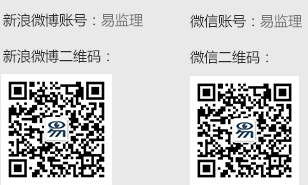
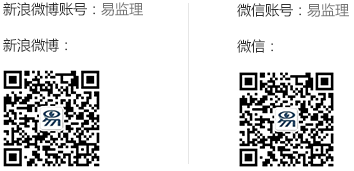
t

diff --git a/newnav/html/head.html b/newnav/html/head.html
@@ -7,7 +7,7 @@
         	<div class="left ml-2">
             	<a href="index.php"><img src="newnav/images/yijianlilogo.png" width="145" height="109" alt="易监理" /></a>
             </div>
-            <div class="left byu mt-3 ml-1">装修从此容易！</div>
+            <div class="left byu mt-6 ml-1">装修从此容易！</div>
             <ul class="left clearfix cn-u mt-5-5">
             	<li class="bg-1">1000元先赔保障</li>
                 <li class="bg-2">100%成本节省</li>

diff --git a/newnav/html/gz_head.html b/newnav/html/gz_head.html
@@ -7,7 +7,7 @@
         	<div class="left ml-2">
             	<a href="gz.php"><img src="newnav/images/yijianlilogo.png" width="145" height="109" alt="易监理" /></a>
             </div>
-            <div class="left byu mt-3 ml-1">装修从此容易！</div>
+            <div class="left byu mt-6 ml-1">装修从此容易！</div>
             <ul class="left clearfix cn-u mt-5-5">
             	<li class="bg-1">1000元先赔保障</li>
                 <li class="bg-2">100%成本节省</li>

diff --git a/function.php b/function.php
@@ -1023,12 +1023,24 @@ if (0 && ($d_l1id != 166 || $_COOKIE['isgz'])) {
 	<div class="right">Copyright &copy; '.date('Y').' '.$r_main['site_name'].'</div><br /><a href="http://www.sgs.gov.cn/lz/licenseLink.do?method=licenceView&entyId=20130520141953244"><img src="icon.gif" border=0></a>
 	</div>';
 } else {
-	$s .= '<div style="background-color:#E9E9E9">
-	<div class="w-100 mga pb-5">
-	<p><img src="newnav/images/contact.png" width="1000" height="84" alt="地址，联系方式"></p>
-	<p class="ml-13"><img src="newnav/images/erweima.png" width="308" height="185" alt="微博，微信扫描"></p>
-	</div>
-	</div>
+	$s .= '<div class="mt-2" style="background-color:#ffffff">
+        	<div style="background-color:#f8f8f8">
+            	<div class="w-100 mga">
+                	<p><img src="newnav/images/contact.png" width="1000" height="107" alt="地址，联系方式" /></p>
+                </div>
+            </div>
+            <div class="w-100 mga pb-3 clearfix">
+                <p class="ml-6-5 mt-2 left"><img src="newnav/images/erweima.png" width="354" height="171" alt="微博，微信扫描" /></p>
+                <p class="left ml-9 mt-2">
+                	<a href="#"><img src="newnav/images/anzhuoapp.png" /></a>
+                    <span style="display:block"><img src="newnav/images/saoyisao.png" /></span>
+                </p>
+                <p class="left ml-9 mt-2">
+                	<a href="#"><img src="newnav/images/khd.png" /></a>
+                    <span style="display:block" class="mt-5"><a href="#"><img src="newnav/images/tylj.png" /></a></span>
+                </p>
+            </div>
+        </div>
 	
 	<div id="footbox" class="w-100 mga">
 	<p class="left pl-13 mr-7"><a href="http://www.miitbeian.gov.cn/" target="_blank">沪ICP备12034482号</a></p>
